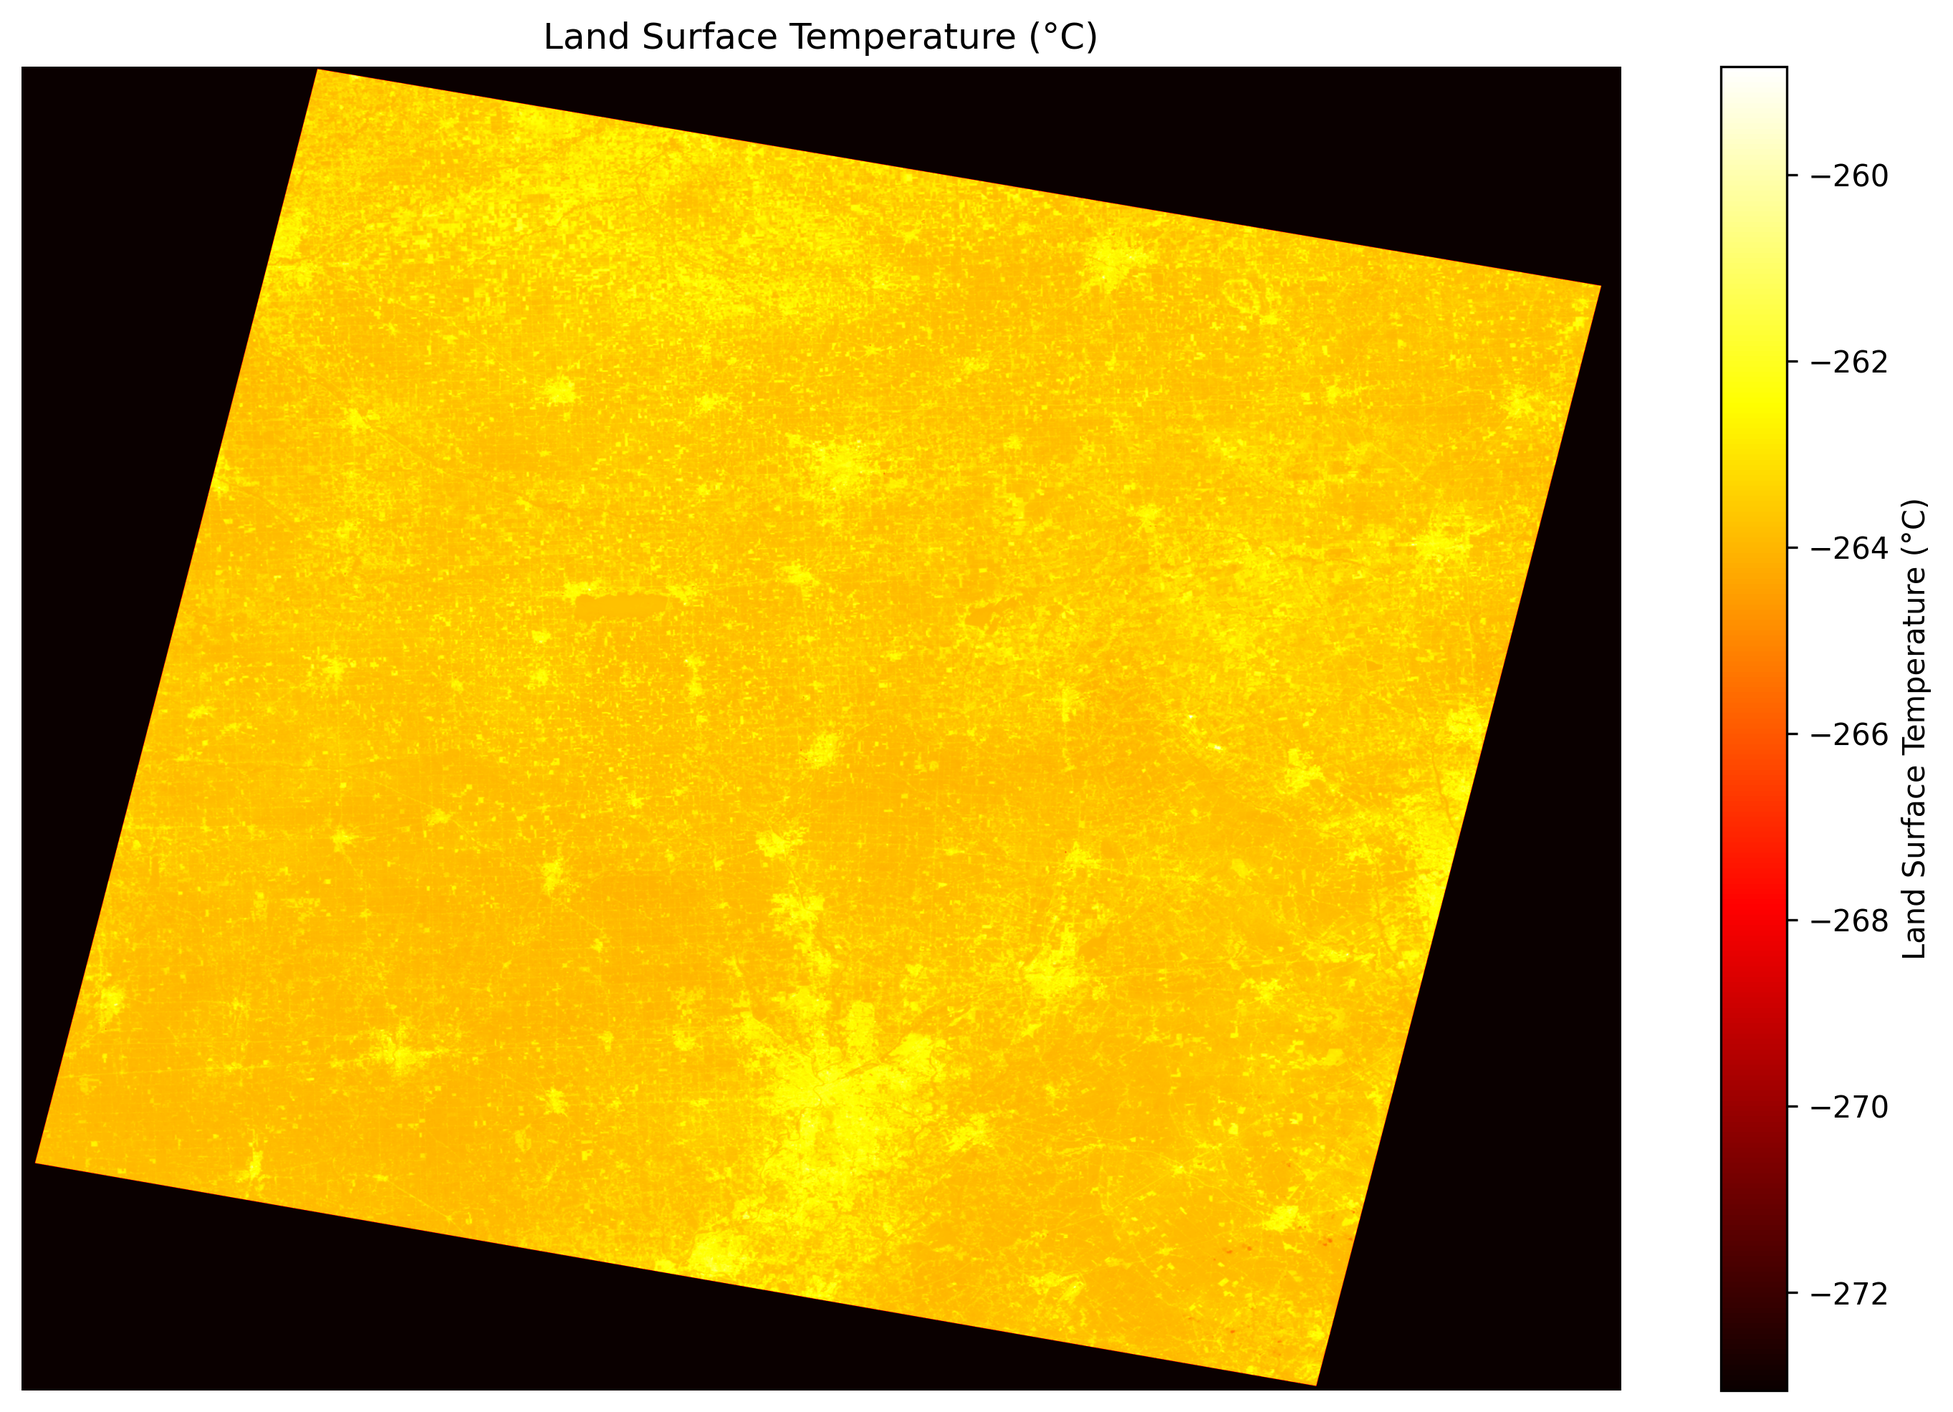
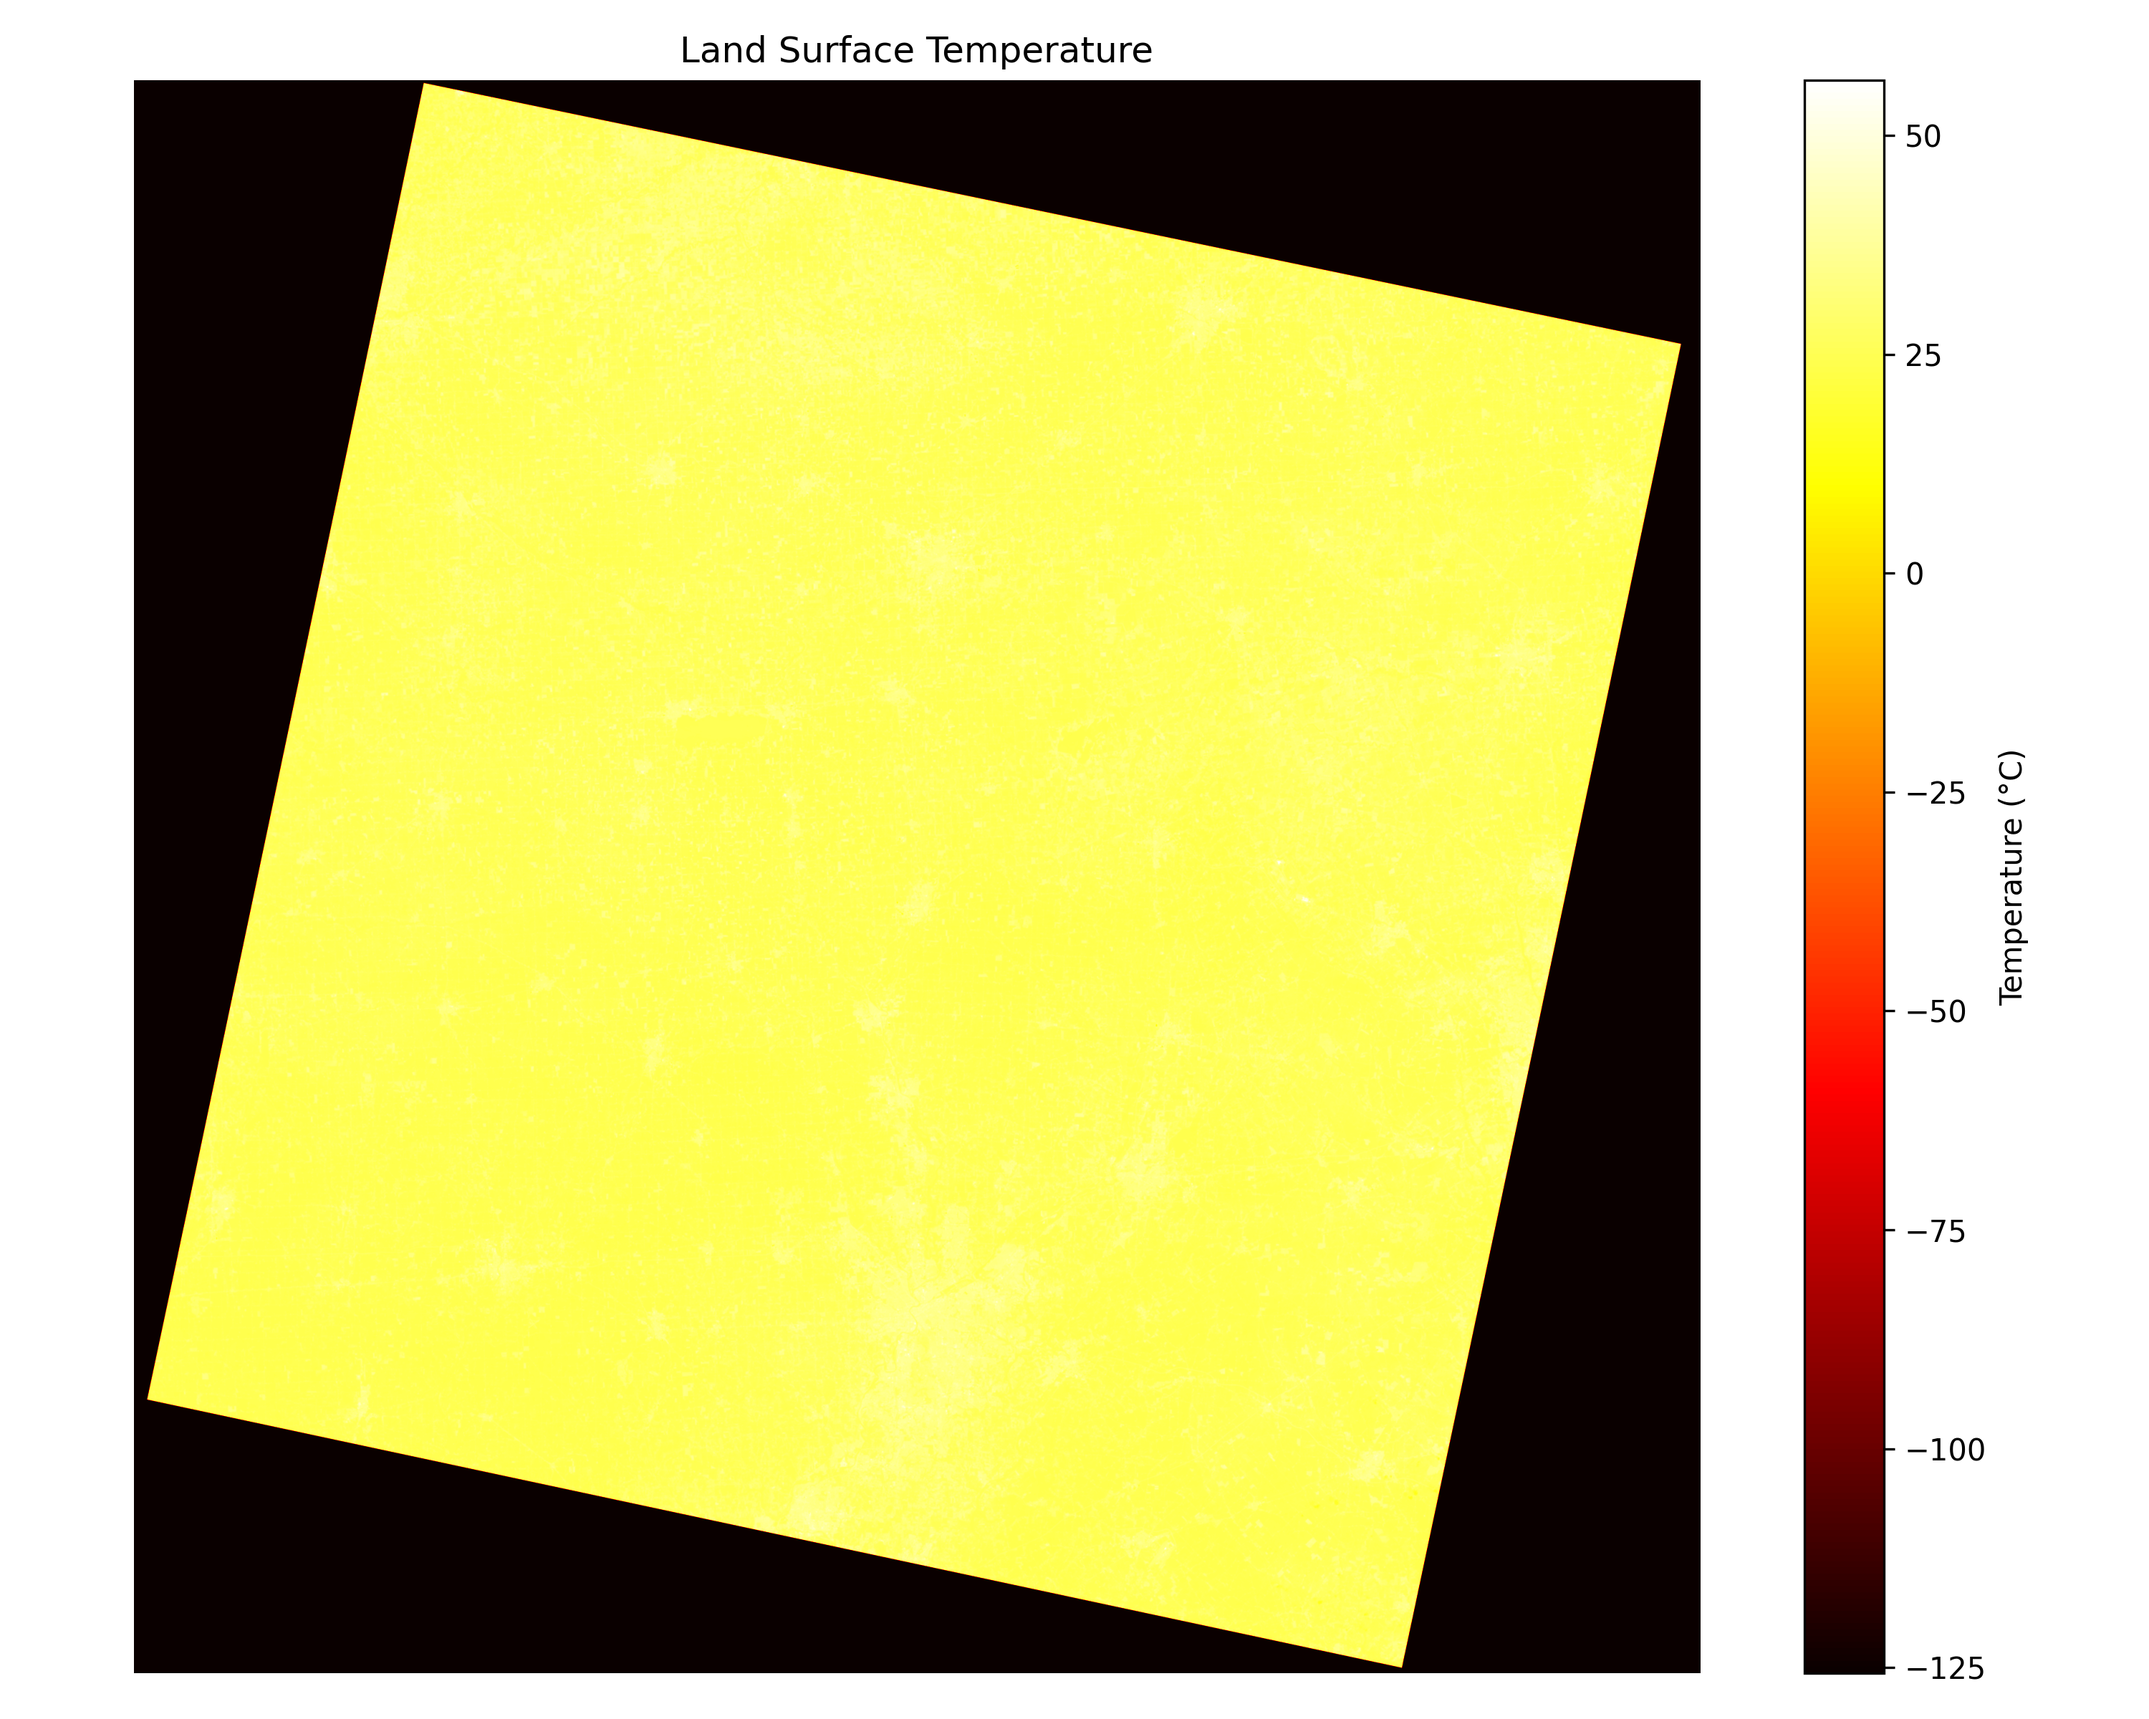
Results and possibly correct solution for Kmeans

diff --git a/uhi_detector_kmeans.py b/uhi_detector_kmeans.py
@@ -3,8 +3,9 @@ import numpy as np
 import rasterio
 import matplotlib.pyplot as plt
 from sklearn.cluster import KMeans
-from sklearn.preprocessing import MinMaxScaler
+from sklearn.preprocessing import StandardScaler
 
+# Define directories for data and results
 data_dir = 'data/landsat/'
 processed_dir = 'data/processed/kmeans/'
 results_dir = 'data/results/kmeans/'
@@ -14,18 +15,20 @@ os.makedirs(processed_dir, exist_ok=True)
 os.makedirs(results_dir, exist_ok=True)
 os.makedirs(visualizations_dir, exist_ok=True)
 
+# Define file paths
 red_band_path = os.path.join(data_dir, 'LC08_L1TP_020032_20240727_20240801_02_T1_B4.TIF')
 nir_band_path = os.path.join(data_dir, 'LC08_L1TP_020032_20240727_20240801_02_T1_B5.TIF')
 thermal_band_path = os.path.join(data_dir, 'LC08_L1TP_020032_20240727_20240801_02_T1_B10.TIF')
 ndvi_output_path = os.path.join(processed_dir, 'ndvi.tif')
 lst_output_path = os.path.join(processed_dir, 'lst.tif')
-uhi_output_path = os.path.join(results_dir, 'uhi_kmeans_2_clusters.tif')
+uhi_output_path = os.path.join(results_dir, 'uhi_kmeans.tif')
 
 ndvi_plot_path = os.path.join(visualizations_dir, 'ndvi_map.png')
 lst_plot_path = os.path.join(visualizations_dir, 'lst_map.png')
 kmeans_plot_path = os.path.join(visualizations_dir, 'kmeans_result.png')
 uhi_plot_path = os.path.join(visualizations_dir, 'uhi_detection.png')
 
+# Function to calculate NDVI
 def calculate_ndvi(red_band_path, nir_band_path, output_path):
     with rasterio.open(red_band_path) as red_src:
         red = red_src.read(1).astype(float)
@@ -34,11 +37,9 @@ def calculate_ndvi(red_band_path, nir_band_path, output_path):
     with rasterio.open(nir_band_path) as nir_src:
         nir = nir_src.read(1).astype(float)
 
-    # Add small epsilon to avoid division by zero
-    epsilon = 1e-10
-    ndvi = (nir - red) / (nir + red + epsilon)
-    ndvi = np.clip(ndvi, -1, 1)  # Clip values to valid NDVI range
-    ndvi[~np.isfinite(ndvi)] = 0  # Handle any remaining invalid values
+    ndvi = (nir - red) / (nir + red + 1e-10)  # Avoid division by zero
+    ndvi = np.clip(ndvi, -1, 1)  # NDVI range
+    ndvi[~np.isfinite(ndvi)] = 0  # Handle invalid values
 
     profile.update(dtype=rasterio.float32, count=1)
     with rasterio.open(output_path, 'w', **profile) as dst:
@@ -46,95 +47,105 @@ def calculate_ndvi(red_band_path, nir_band_path, output_path):
 
     return ndvi
 
+# Function to calculate LST
 def calculate_lst(thermal_band_path, output_path):
     with rasterio.open(thermal_band_path) as thermal_src:
         thermal = thermal_src.read(1).astype(float)
         profile = thermal_src.profile
 
-    # Convert DN to radiance and then to temperature
-    ML = 3.342e-4  # Multiplicative rescaling factor
-    AL = 0.1      # Additive rescaling factor
-    
-    radiance = thermal * ML + AL
-    lst = (radiance - 273.15)  # Convert to Celsius
+    ML, AL = 0.0003342, 0.1  # Radiance scaling factors
+    K1, K2 = 774.89, 1321.08  # Thermal constants from metadata
 
-    # Filter out invalid values
+    radiance = thermal * ML + AL
+    lst = K2 / np.log((K1 / radiance) + 1) - 273.15  # Convert to Celsius
     lst[~np.isfinite(lst)] = np.nan
-    
+
     profile.update(dtype=rasterio.float32, count=1)
     with rasterio.open(output_path, 'w', **profile) as dst:
         dst.write(lst.astype(rasterio.float32), 1)
 
     return lst
 
+# Function to perform K-means clustering
 def kmeans_clustering(lst, ndvi, n_clusters=5):
     lst_flat = lst.flatten()
     ndvi_flat = ndvi.flatten()
-    valid_mask = (
-        np.isfinite(lst_flat) & 
-        np.isfinite(ndvi_flat) & 
-        (lst_flat != 0) & 
-        (ndvi_flat != 0)
-    )
+    valid_mask = np.isfinite(lst_flat) & np.isfinite(ndvi_flat)
     valid_lst = lst_flat[valid_mask]
     valid_ndvi = ndvi_flat[valid_mask]
-    
-    features = np.vstack([valid_lst, valid_ndvi]).T
-    scaler = MinMaxScaler()
+
+    # Prepare features
+    features = np.vstack((valid_lst, valid_ndvi)).T
+
+    # Standardize features
+    scaler = StandardScaler()
     features_scaled = scaler.fit_transform(features)
-    
-    kmeans = KMeans(
-        n_clusters=n_clusters,
-        random_state=42,
-        n_init=10,
-        max_iter=300
-    )
-    
+
+    # Apply K-means clustering
+    kmeans = KMeans(n_clusters=n_clusters, init='k-means++', random_state=42, n_init=10, max_iter=300)
     cluster_labels = kmeans.fit_predict(features_scaled)
-    
-    # Create output image
-    labels_image = np.full(lst_flat.shape, -1, dtype=np.int32)
-    labels_image[valid_mask] = cluster_labels
-    labels_image = labels_image.reshape(lst.shape)
-    
-    return {
+
+    # Create full-sized label image
+    labels_image = np.full(lst.shape, -1, dtype=np.int32)
+    labels_image.flat[valid_mask] = cluster_labels
+
+    # Rescale cluster centers back to original feature ranges
+    cluster_centers = scaler.inverse_transform(kmeans.cluster_centers_)
+    cluster_info = {
         'labels': labels_image,
-        'centers': kmeans.cluster_centers_,
-        'scaler': scaler,
+        'centers': cluster_centers,
         'inertia': kmeans.inertia_
     }
 
-def identify_uhi_cluster(cluster_info, lst):
-    labels = cluster_info['labels']
-    
-    cluster_temps = []
-    for i in range(len(cluster_info['centers'])):
-        mask = (labels == i)
-        if np.any(mask):
-            mean_temp = np.nanmean(lst[mask])
-            cluster_temps.append((i, mean_temp))
-    
-    uhi_cluster = max(cluster_temps, key=lambda x: x[1])[0]
-    
-    uhi_mask = (labels == uhi_cluster).astype(np.uint8)
-    
-    return uhi_mask, uhi_cluster
+    # Identify UHI cluster
+    uhi_cluster = identify_uhi_cluster(cluster_info, valid_lst, valid_ndvi, cluster_labels)
 
-def save_plot(data, title, cmap, plot_path, vmin=None, vmax=None):
-    plt.figure(figsize=(12, 8))
-    
-    # Handle different types of plots
-    if title == 'K-means Clusters':
-        # Create a masked array for better visualization
-        masked_data = np.ma.masked_where(data == -1, data)
-        im = plt.imshow(masked_data, cmap='viridis', aspect='auto')
-    else:
-        im = plt.imshow(data, cmap=cmap, aspect='auto', vmin=vmin, vmax=vmax)
-    
-    plt.colorbar(im, label=title)
+    # Create UHI mask
+    uhi_mask = (labels_image == uhi_cluster).astype(np.uint8)
+
+    return uhi_mask, cluster_info
+
+# Function to identify the UHI cluster
+def identify_uhi_cluster(cluster_info, valid_lst, valid_ndvi, cluster_labels):
+    centers = cluster_info['centers']
+    lst_centers = centers[:, 0]
+    ndvi_centers = centers[:, 1]
+
+    # Calculate cluster-level statistics
+    cluster_temps = []
+    for i in range(len(centers)):
+        mask = (cluster_labels == i)
+        mean_temp = np.mean(valid_lst[mask])
+        mean_ndvi = np.mean(valid_ndvi[mask])
+        std_temp = np.std(valid_lst[mask])  # Measure variability
+        cluster_temps.append((i, mean_temp, mean_ndvi, std_temp))
+
+    # Calculate UHI score (higher mean LST, lower mean NDVI, lower variability)
+    uhi_scores = [
+        (i, mean_temp - mean_ndvi - 0.1 * std_temp)  # Weighted scoring
+        for i, mean_temp, mean_ndvi, std_temp in cluster_temps
+    ]
+
+    # Identify the cluster with the highest UHI score
+    uhi_cluster = max(uhi_scores, key=lambda x: x[1])[0]
+
+    # Debugging: Print cluster centers, scores, and selection
+    print("Cluster Centers and Scores:")
+    for i, (lst_c, ndvi_c, score) in enumerate(zip(lst_centers, ndvi_centers, [s[1] for s in uhi_scores])):
+        print(f"Cluster {i}: LST Center = {lst_c:.2f}, NDVI Center = {ndvi_c:.2f}, Score = {score:.2f}")
+
+    print(f"Identified UHI Cluster: {uhi_cluster}")
+    return uhi_cluster
+
+# Function to save plots
+def save_plot(data, title, cmap, filename, vmin=None, vmax=None):
+    plt.figure(figsize=(10, 8))
+    plt.imshow(data, cmap=cmap, vmin=vmin, vmax=vmax)
+    plt.colorbar()
     plt.title(title)
     plt.axis('off')
-    plt.savefig(plot_path, bbox_inches='tight', dpi=300)
+    plt.tight_layout()
+    plt.savefig(filename, dpi=300)
     plt.close()
 
 def main():
@@ -148,23 +159,21 @@ def main():
     lst = calculate_lst(thermal_band_path, lst_output_path)
     save_plot(lst, 'Land Surface Temperature (°C)', 'hot', lst_plot_path)
 
-    # Perform clustering
+    # Perform K-means clustering
+    n_clusters = 5  # You can adjust this number
     print("Performing K-means clustering...")
-    cluster_info = kmeans_clustering(lst, ndvi, n_clusters=2)
-    save_plot(cluster_info['labels'], 'K-means Clusters', 'coolwarm', kmeans_plot_path)
+    uhi_mask, cluster_info = kmeans_clustering(lst, ndvi, n_clusters=n_clusters)
+    save_plot(uhi_mask, 'UHI Detection via K-means', 'gray', uhi_plot_path)
 
-    # Identify UHI
-    print("Identifying UHI...")
-    uhi_mask, uhi_cluster = identify_uhi_cluster(cluster_info, lst)
-    save_plot(uhi_mask, 'Urban Heat Island Detection', 'coolwarm', uhi_plot_path)
-
-    # Save UHI result
+    # Save the UHI mask to a GeoTIFF file
     with rasterio.open(thermal_band_path) as src:
         profile = src.profile
         profile.update(dtype=rasterio.uint8, count=1)
+        with rasterio.open(uhi_output_path, 'w', **profile) as dst:
+            dst.write(uhi_mask.astype(rasterio.uint8), 1)
 
-    with rasterio.open(uhi_output_path, 'w', **profile) as dst:
-        dst.write(uhi_mask.astype(rasterio.uint8), 1)
+    print(f"UHI mask saved to {uhi_output_path}")
+
 
     print("Processing complete!")
 

diff --git a/uhi_visualization_kmeans.py b/uhi_visualization_kmeans.py
@@ -1,0 +1,73 @@
+import os
+import numpy as np
+import rasterio
+import matplotlib.pyplot as plt
+import geopandas as gpd
+import folium
+from shapely.geometry import mapping
+from rasterio.mask import mask
+
+def visualize_ndvi(ndvi_path, output_path):
+    with rasterio.open(ndvi_path) as src:
+        ndvi = src.read(1)
+        ndvi[ndvi == src.nodata] = np.nan
+
+    plt.figure(figsize=(10, 8))
+    plt.imshow(ndvi, cmap='RdYlGn', vmin=-1, vmax=1)
+    plt.colorbar(label='NDVI')
+    plt.title('NDVI')
+    plt.axis('off')
+    plt.tight_layout()
+    plt.savefig(output_path, dpi=300)
+    plt.close()
+    print(f"NDVI map saved to {output_path}")
+
+def visualize_lst(lst_path, output_path):
+    with rasterio.open(lst_path) as src:
+        lst = src.read(1)
+        lst[lst == src.nodata] = np.nan
+
+    plt.figure(figsize=(10, 8))
+    plt.imshow(lst, cmap='hot')
+    plt.colorbar(label='Temperature (°C)')
+    plt.title('Land Surface Temperature')
+    plt.axis('off')
+    plt.tight_layout()
+    plt.savefig(output_path, dpi=300)
+    plt.close()
+    print(f"LST map saved to {output_path}")
+
+def visualize_uhi(uhi_mask_path, output_path, title='UHI Detection via K-means'):
+    with rasterio.open(uhi_mask_path) as src:
+        uhi_mask = src.read(1).astype(float)  # Convert to float to allow NaN assignments
+        uhi_mask[uhi_mask == src.nodata] = np.nan  # Replace nodata values with NaN
+
+    plt.figure(figsize=(10, 8))
+    plt.imshow(uhi_mask, cmap='gray')
+    plt.colorbar(label='UHI Mask')
+    plt.title(title)
+    plt.axis('off')
+    plt.tight_layout()
+    plt.savefig(output_path, dpi=300)
+    plt.close()
+    print(f"UHI detection map saved to {output_path}")
+
+
+if __name__ == "__main__":
+    results_dir = 'data/processed/kmeans/'
+    visualizations_dir = 'visualization/kmeans/'
+    uhi_results_dir = 'data/results/kmeans/'
+
+
+    ndvi_path = os.path.join(results_dir, 'ndvi.tif')
+    lst_path = os.path.join(results_dir, 'lst.tif')
+    uhi_mask_path = os.path.join(uhi_results_dir, 'uhi_kmeans.tif')
+
+    ndvi_plot_path = os.path.join(visualizations_dir, 'ndvi_map.png')
+    lst_plot_path = os.path.join(visualizations_dir, 'lst_map.png')
+    uhi_plot_path = os.path.join(visualizations_dir, 'uhi_detection.png')
+
+    # Create visualizations
+    visualize_ndvi(ndvi_path, ndvi_plot_path)
+    visualize_lst(lst_path, lst_plot_path)
+    visualize_uhi(uhi_mask_path, uhi_plot_path)
